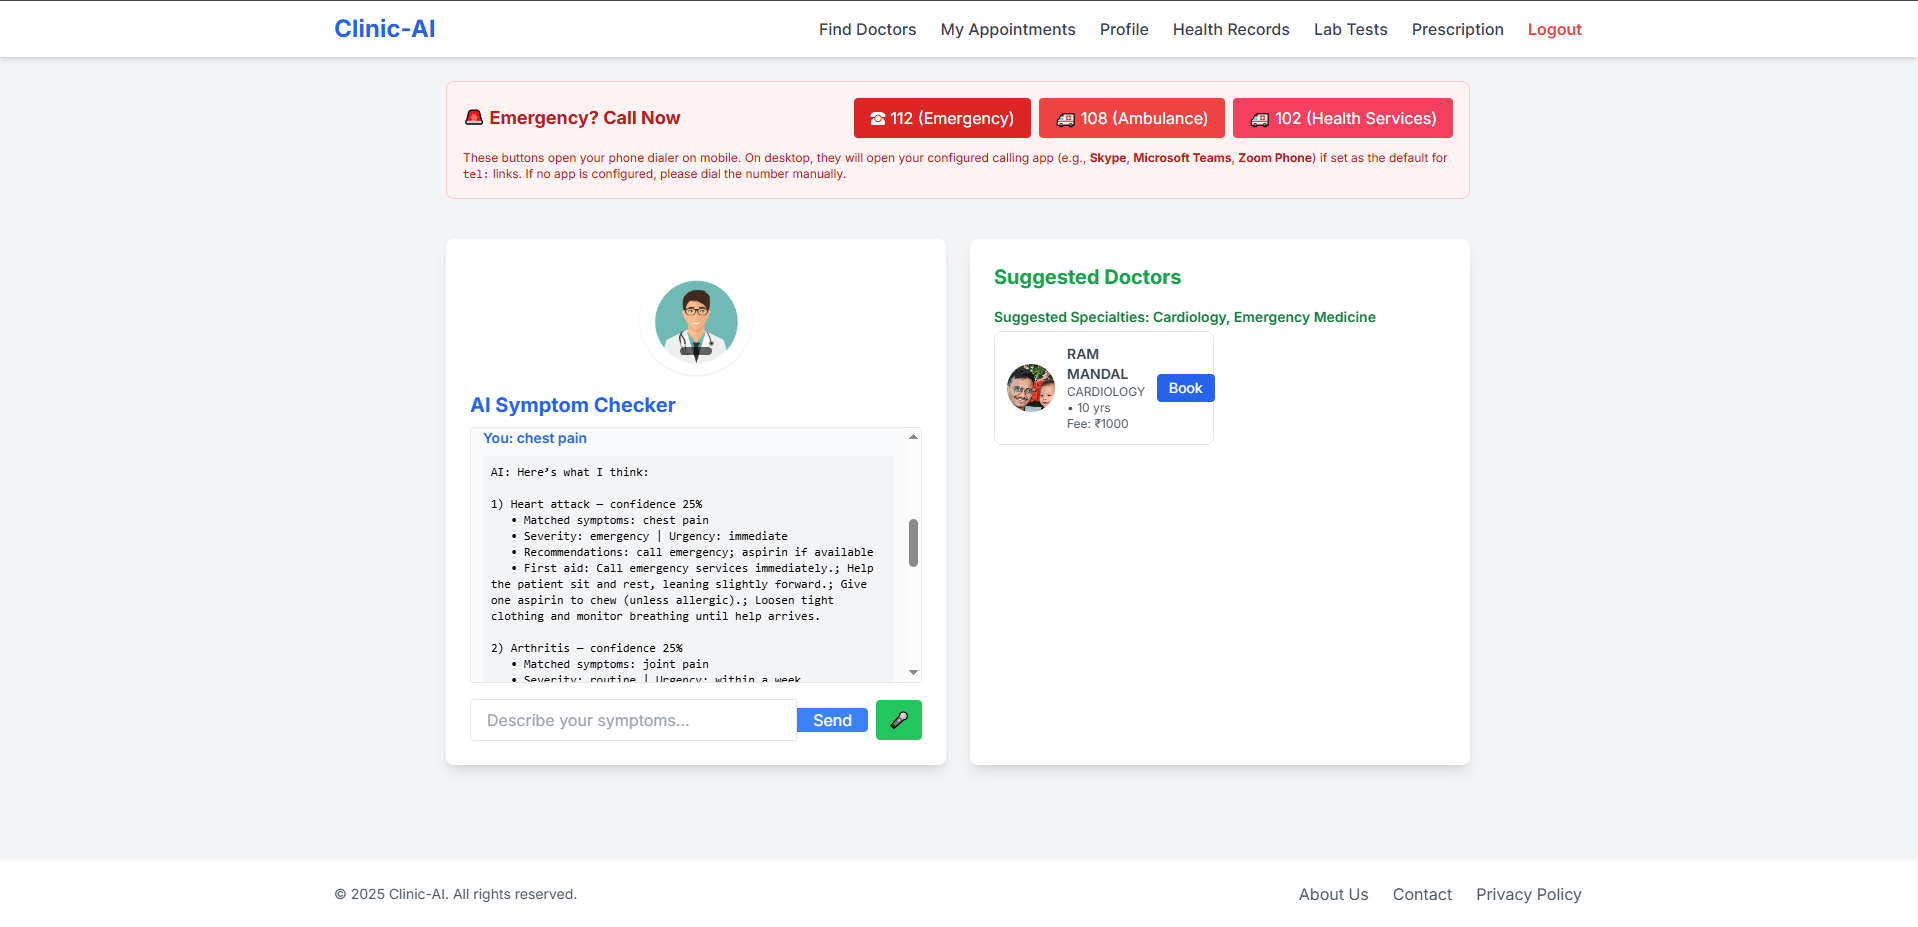
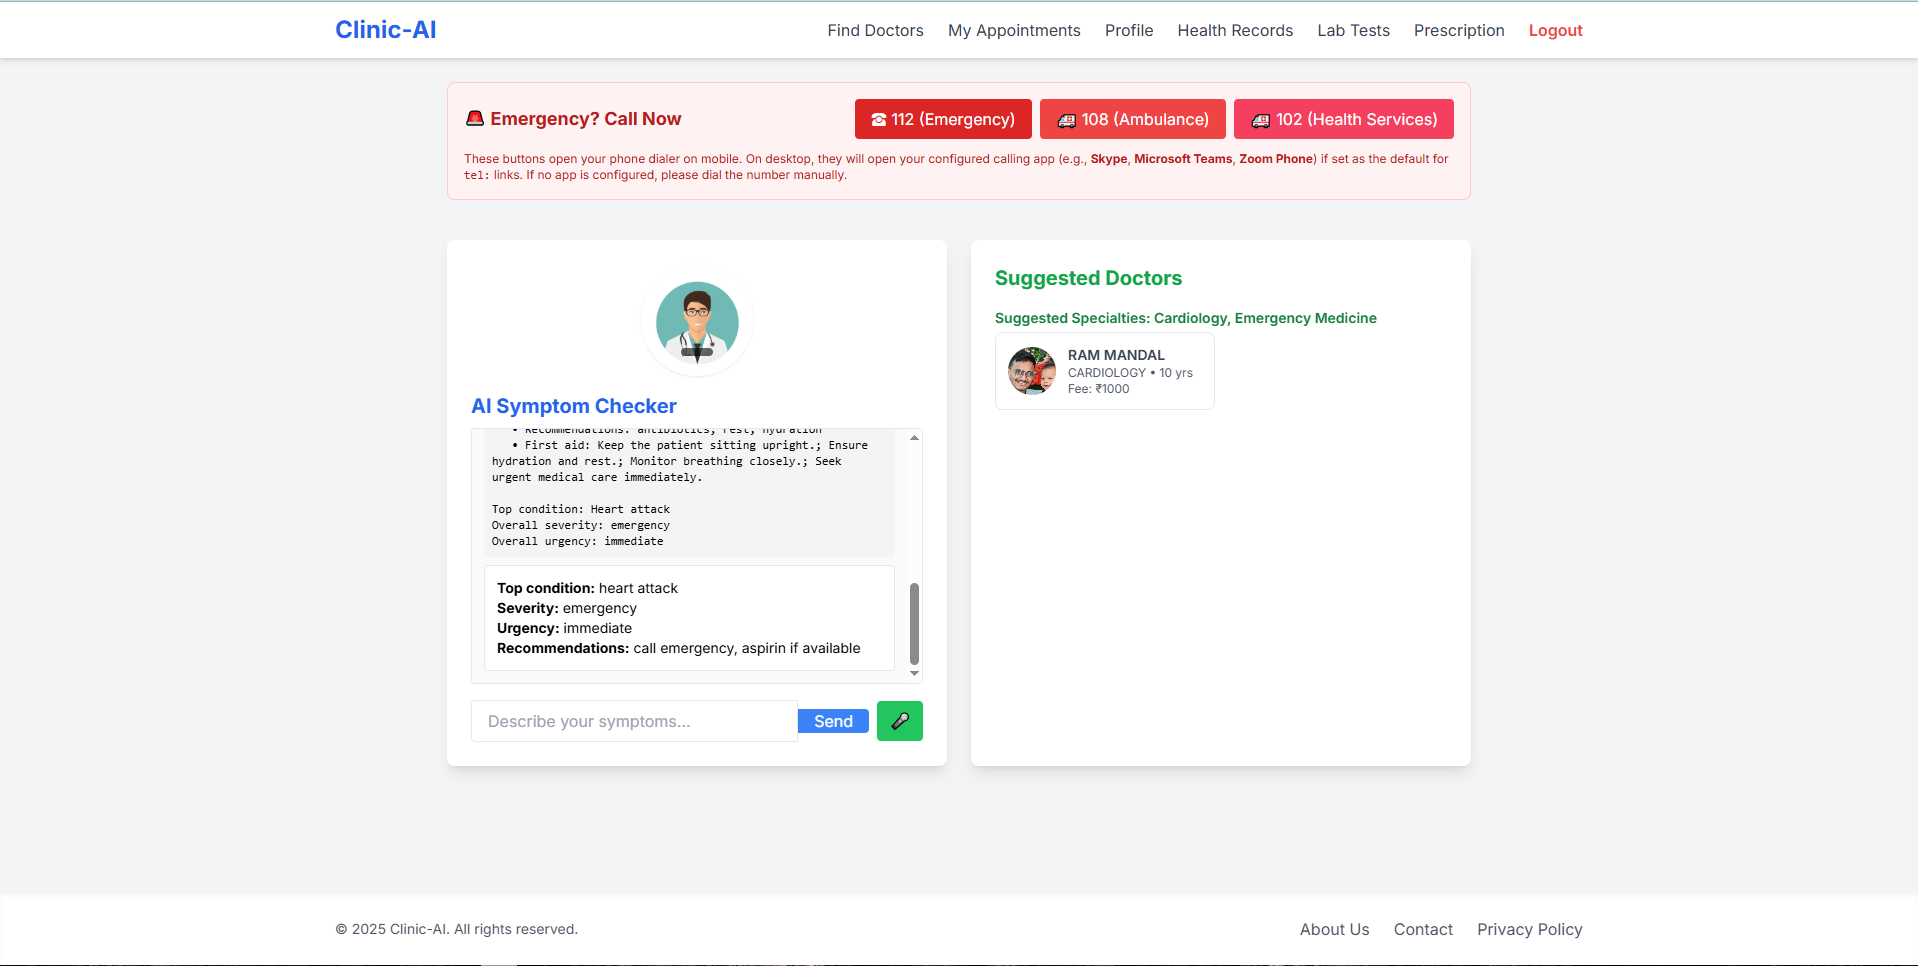
Update patient dashboard: removed Book button

diff --git a/ai-modules/symptom-analysis/nlpProcessor.js b/ai-modules/symptom-analysis/nlpProcessor.js
@@ -342,3 +342,5 @@ async function processInput(text, opts = {}) {
 }
 
 module.exports = { processInput };
+
+

diff --git a/README.md b/README.md
@@ -1,4 +1,94 @@
-# doctalk-ai
-Doctalk-AI is an AI-powered doctor teleclinic platform.  
-It is a full-stack MERN application to streamline digital healthcare by connecting patients, doctors, and administrators.  
-Features include AI symptom analysis, secure payments, and video consultations in a seamless workflow.
+# 🏥 Doctalk-AI – AI-Powered Teleclinic Platform  
+*MERN Stack (MongoDB, Express.js, React.js, Node.js) with EJS | 2025*
+
+Doctalk-AI is a **full-stack AI-powered teleclinic platform** that connects **patients, doctors, and admins** in a seamless digital healthcare ecosystem.  
+It combines **AI-driven diagnosis, secure video consultations, UPI-based payments, and health record management** into a single platform.
+
+---
+
+## 🚀 Tech Stack
+
+![MongoDB](https://img.shields.io/badge/MongoDB-%2347A248.svg?&style=for-the-badge&logo=mongodb&logoColor=white)  
+![Express.js](https://img.shields.io/badge/Express.js-%23000000.svg?&style=for-the-badge&logo=express&logoColor=white)  
+![React](https://img.shields.io/badge/React-%2361DAFB.svg?&style=for-the-badge&logo=react&logoColor=black)  
+![Node.js](https://img.shields.io/badge/Node.js-%23339933.svg?&style=for-the-badge&logo=node.js&logoColor=white)  
+![EJS](https://img.shields.io/badge/EJS-FFB800?style=for-the-badge&logo=ejs&logoColor=black)  
+![TailwindCSS](https://img.shields.io/badge/TailwindCSS-%2306B6D4.svg?&style=for-the-badge&logo=tailwind-css&logoColor=white)  
+
+---
+
+## ✨ Features
+
+- 🤖 **AI Symptom-Analysis Chatbot**  
+  Generates structured JSON outputs → condition, severity, recommendations.
+
+- 🎥 **Video Consultations**  
+  Secure integration with **Google Meet / Zoom** and appointment scheduling.
+
+- 💳 **UPI-Based Payments**  
+  Linked directly to doctor availability and patient bookings.
+
+- 📑 **Medical Record Management**  
+  Upload/download prescriptions, maintain health history, and lab test requests.
+
+- 🔐 **Role-Based Authentication**  
+  Secure login with JWT → roles: Patient, Doctor, Admin.
+
+- 📊 **Admin Dashboard**  
+  Manage doctors, patients, payments, appointments, chat logs, lab requests.
+
+---
+
+## 🖼 Screenshots
+
+### 👨⚕ Patient Interface
+| ![Patient 0](./assets/0.png) | ![Patient 1](./assets/1.png) | ![Patient 2](./assets/2.png) |
+|-------------------------------|-------------------------------|-------------------------------|
+| ![Patient 3](./assets/3.png) | ![Patient 4](./assets/4.png) | ![Patient 5](./assets/5.png) |
+| ![Patient 6](./assets/6.png) | ![Patient 7](./assets/7.png) | ![Patient 8](./assets/8.png) |
+| ![Patient 9](./assets/9.png) | ![Patient 10](./assets/10.png) | |
+
+---
+
+### 🧑⚕ Doctor Interface
+| ![Doctor 11](./assets/11.png) | ![Doctor 12](./assets/12.png) | ![Doctor 13](./assets/13.png) |
+|--------------------------------|--------------------------------|--------------------------------|
+| ![Doctor 14](./assets/14.png) | |
+
+---
+
+### 🛡 Admin Interface
+| ![Admin 15](./assets/15.png) | ![Admin 16](./assets/16.png) | ![Admin 17](./assets/17.png) |
+|--------------------------------|--------------------------------|--------------------------------|
+| ![Admin 18](./assets/18.png) | ![Admin 19](./assets/19.png) | ![Admin 20](./assets/20.png) |
+| ![Admin 21](./assets/21.png) | ![Admin 22](./assets/22.png) | |
+
+---
+
+## ⚡ Installation & Setup
+
+```bash
+# Clone repository
+git clone https://github.com/your-username/doctalk-ai.git
+cd doctalk-ai
+
+# Install dependencies for backend
+cd backend
+npm install
+
+# Install dependencies for frontend
+cd ../frontend
+npm install
+
+# Create a .env file in backend with:
+MONGO_URI=your_mongodb_connection_string
+JWT_SECRET=your_secret_key
+PAYMENT_GATEWAY_KEY=upi_key_here
+
+# Run backend
+cd backend
+npm start
+
+# Run frontend
+cd ../frontend
+npm start
